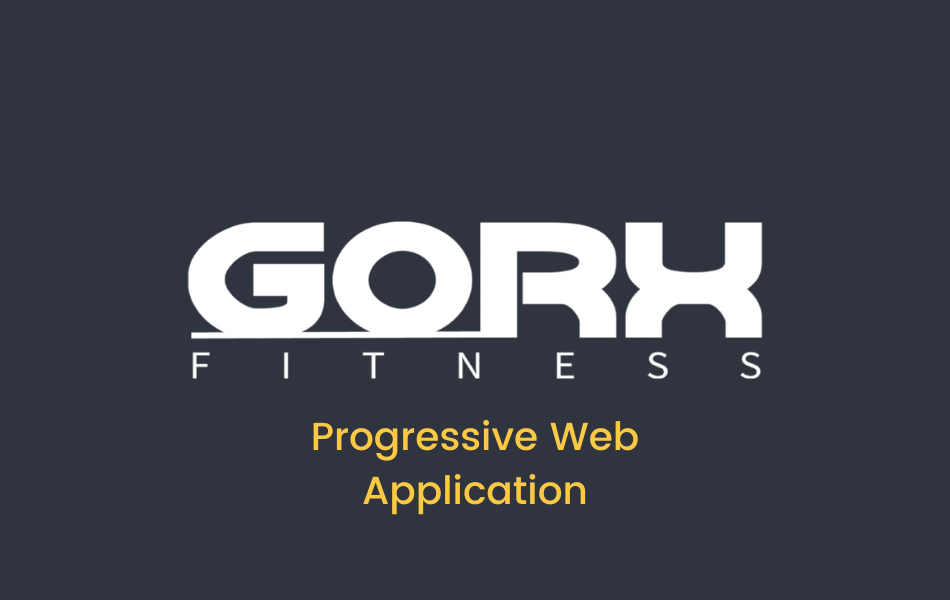
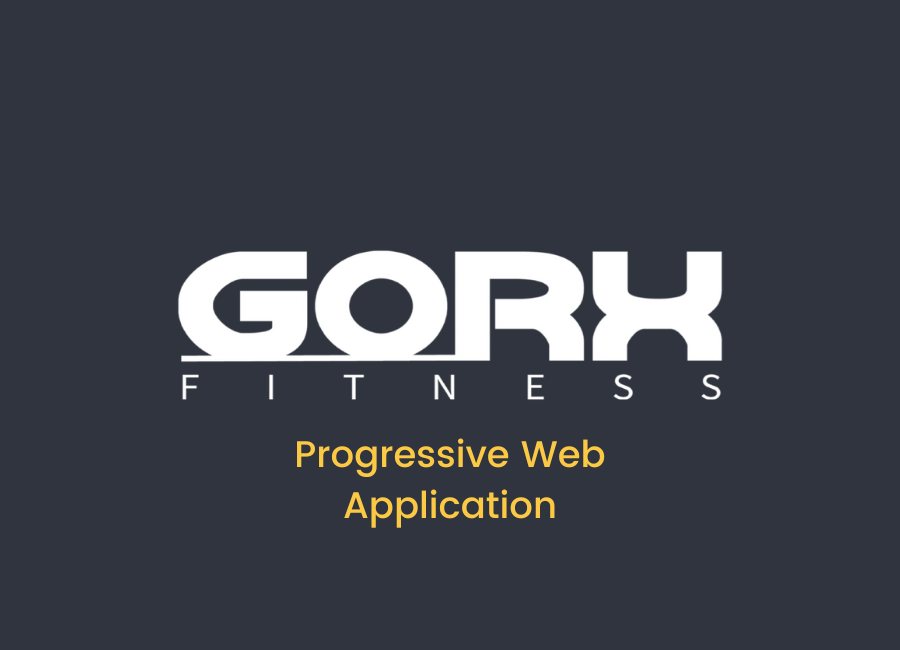
fix image sizing and add tidio chat bot

diff --git a/index.html b/index.html
@@ -53,8 +53,8 @@
         <div class="collapse navbar-collapse" id="navbarResponsive">
           <ul class="navbar-nav ms-auto">
             <li class="nav-item mx-0 mx-lg-1">
-              <a class="nav-link py-3 px-0 px-lg-3 rounded" href="#portfolio"
-                >Portfolio</a
+              <a class="nav-link py-3 px-0 px-lg-3 rounded" href="#projects"
+                >Projects</a
               >
             </li>
             <li class="nav-item mx-0 mx-lg-1">
@@ -93,13 +93,13 @@
       </div>
     </header>
     <!-- Portfolio Section-->
-    <section class="page-section portfolio" id="portfolio">
+    <section class="page-section portfolio" id="projects">
       <div class="container">
         <!-- Portfolio Section Heading-->
         <h2
           class="page-section-heading text-center text-uppercase text-secondary mb-0"
         >
-          Portfolio
+          Projects
         </h2>
         <!-- Icon Divider-->
         <div class="divider-custom">
@@ -120,7 +120,6 @@
                 <div
                   class="portfolio-item-caption-content text-center text-white"
                 >
-                  <i class="fas fa-plus fa-3x"></i>
                 </div>
               </div>
               <img
@@ -143,7 +142,6 @@
                 <div
                   class="portfolio-item-caption-content text-center text-white"
                 >
-                  <i class="fas fa-plus fa-3x"></i>
                 </div>
               </div>
               <img
@@ -166,7 +164,6 @@
                 <div
                   class="portfolio-item-caption-content text-center text-white"
                 >
-                  <i class="fas fa-plus fa-3x"></i>
                 </div>
               </div>
               <img
@@ -189,7 +186,6 @@
                 <div
                   class="portfolio-item-caption-content text-center text-white"
                 >
-                  <i class="fas fa-plus fa-3x"></i>
                 </div>
               </div>
               <img
@@ -212,7 +208,6 @@
                 <div
                   class="portfolio-item-caption-content text-center text-white"
                 >
-                  <i class="fas fa-plus fa-3x"></i>
                 </div>
               </div>
               <img
@@ -696,5 +691,7 @@
     <script src="https://cdn.jsdelivr.net/npm/bootstrap@5.1.3/dist/js/bootstrap.bundle.min.js"></script>
     <!-- Core theme JS-->
     <script src="js/scripts.js"></script>
+      <!-- Tidio Live Chat Bot-->
+      <script src="//code.tidio.co/uu5tqt7f89rm4mhc9aakqx3q6t97l9bn.js" async></script>
   </body>
 </html>

diff --git a/css/styles.css b/css/styles.css
@@ -3742,7 +3742,7 @@ fieldset:disabled .btn {
   text-decoration: underline;
 }
 .btn-link:hover {
-  color: #15967d;
+  color: #fcc945;
 }
 .btn-link:disabled,
 .btn-link.disabled {
